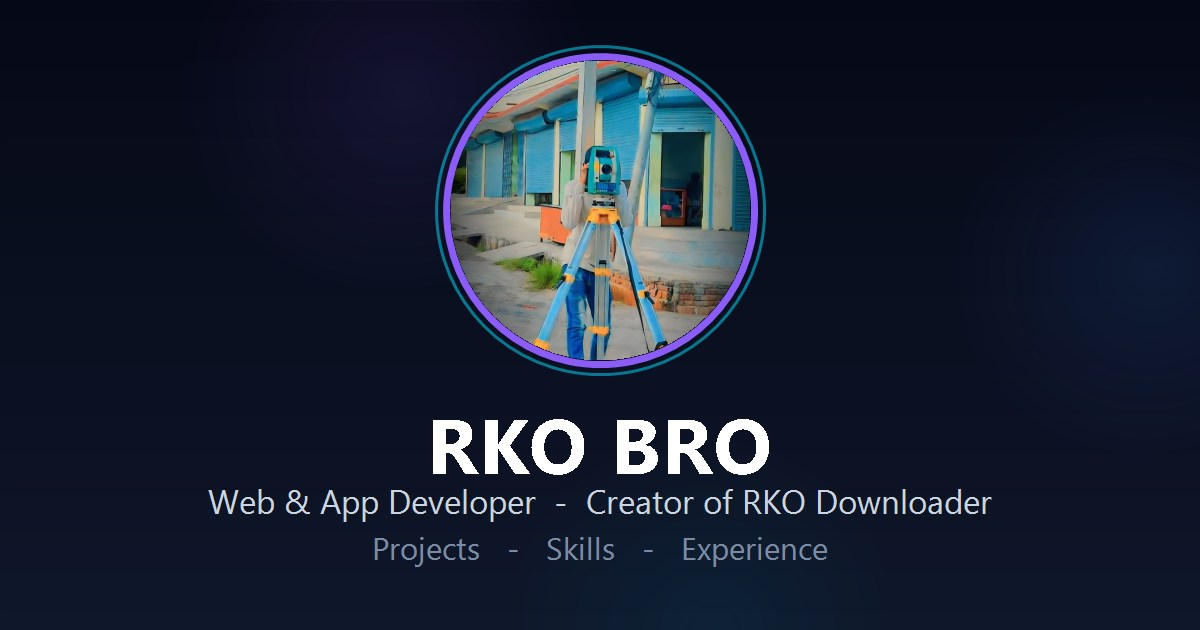
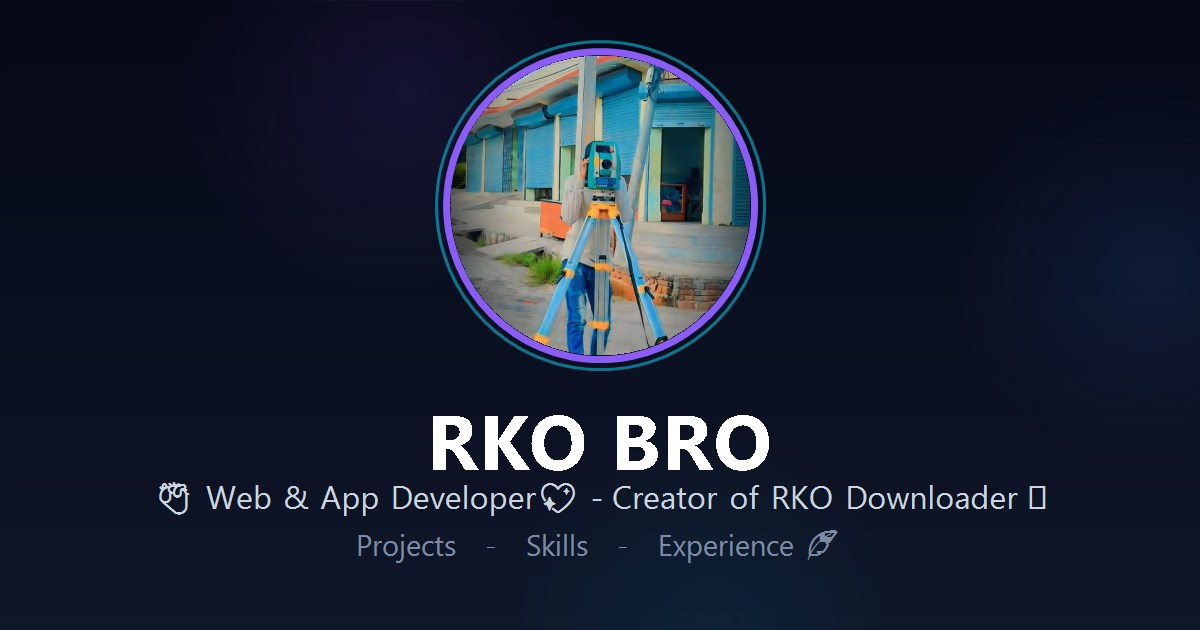
og-image v5: emojis rendered on image via Segoe UI Emoji font

diff --git a/index.html b/index.html
@@ -9,7 +9,7 @@
   <meta property="og:description" content="🫀 Web & App Developer💖 — Creator of RKO Downloader 🤌 Projects • Skills • Experience 🫶" />
   <meta property="og:type" content="website" />
   <meta property="og:url" content="https://rko-bro-website.pages.dev/" />
-  <meta property="og:image" content="https://rko-bro-website.pages.dev/assets/og-image.jpg?v=4" />
+  <meta property="og:image" content="https://rko-bro-website.pages.dev/assets/og-image.jpg?v=5" />
   <meta property="og:image:width" content="1200" />
   <meta property="og:image:height" content="630" />
   <meta property="og:image:alt" content="RKO BRO - Full Stack Developer" />
@@ -17,7 +17,7 @@
   <meta name="twitter:card" content="summary_large_image" />
   <meta name="twitter:title" content="💖 RKO BRO | Full Stack Developer 🫶" />
   <meta name="twitter:description" content="🫀 Web & App Developer💖 — Creator of RKO Downloader 🤌 Projects • Skills • Experience 🫶" />
-  <meta name="twitter:image" content="https://rko-bro-website.pages.dev/assets/og-image.jpg?v=4" />
+  <meta name="twitter:image" content="https://rko-bro-website.pages.dev/assets/og-image.jpg?v=5" />
   <meta name="theme-color" content="#050816" />
   <link rel="icon" type="image/png" href="assets/favicon-64.png" />
   <link rel="apple-touch-icon" href="assets/favicon-180.png" />
